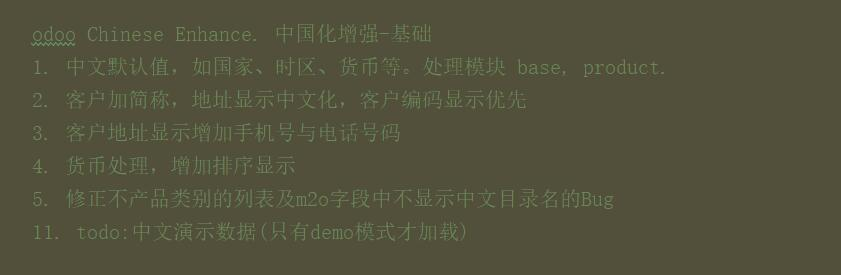
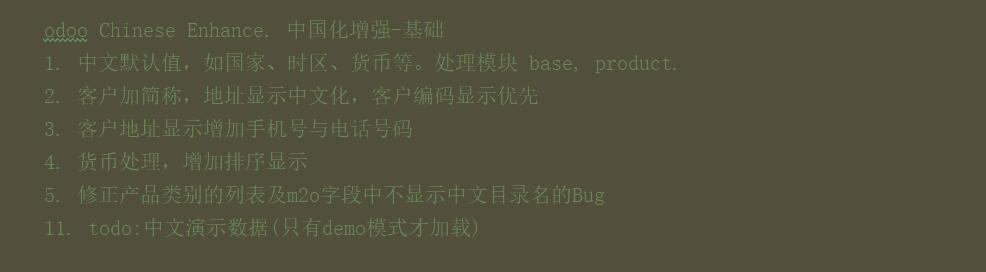
opt

diff --git a/app_base_chinese/static/description/index.html b/app_base_chinese/static/description/index.html
@@ -4,7 +4,7 @@
             <h2 class="oe_slogan">App base chinese. Local customize for china user  </h2>
             <h3 class="oe_slogan">Set all chinese default value. Like Default country, timezone, currency, partner... </h3>
             <div class="oe_row">
-                <h3>Lastest update: v12.0.11.14,  2018-11-14</h3>
+                <h3>Lastest update: v12.19.3.04</h3>
                 <div class="oe_span12">
                     <img class="oe_demo oe_picture oe_screenshot" src="banner.jpg">
                 </div>

diff --git a/app_base_chinese/__manifest__.py b/app_base_chinese/__manifest__.py
@@ -36,7 +36,7 @@
     2. 客户加简称，地址显示中文化，客户编码显示优先
     3. 客户地址显示增加手机号与电话号码
     4. 货币处理，增加排序显示
-    5. 修正不产品类别的列表及m2o字段中不显示中文目录名的Bug
+    5. 修正产品类别的列表及m2o字段中不显示中文目录名的Bug
     11. todo:中文演示数据(只有demo模式才加载)
     
     """,
